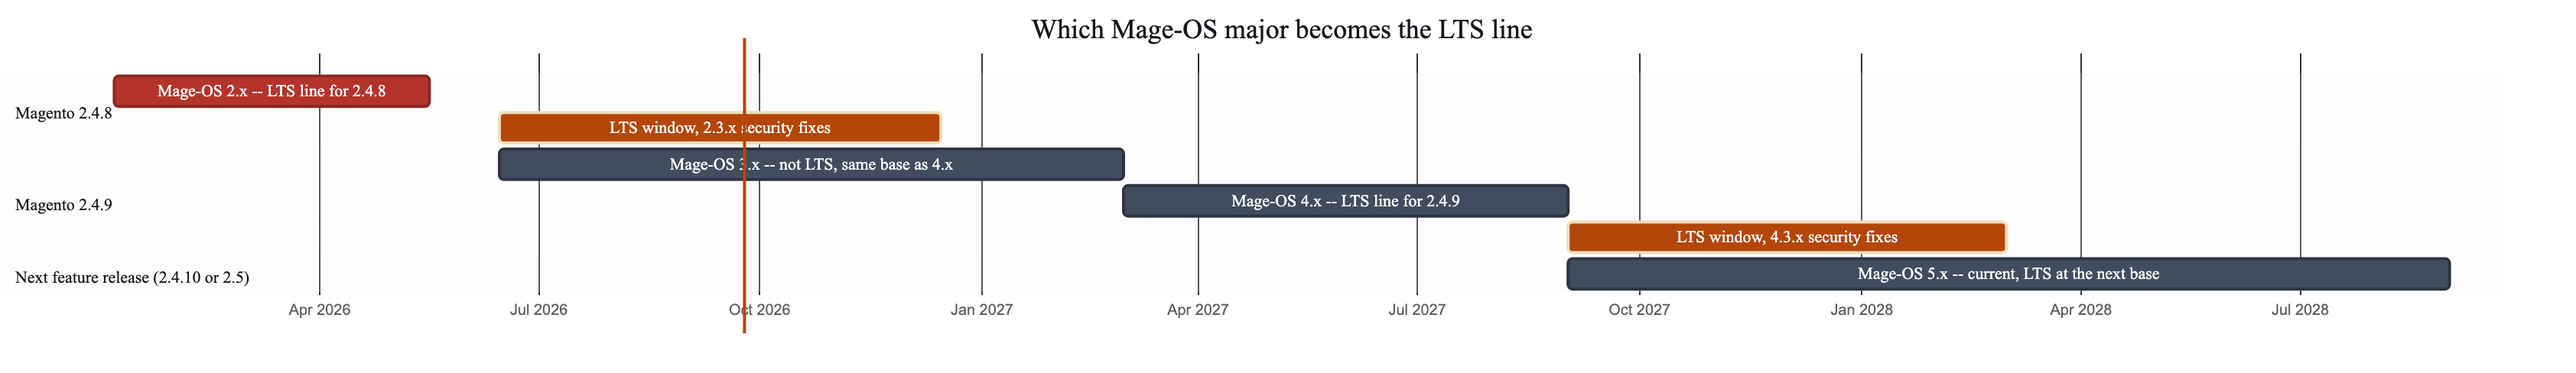
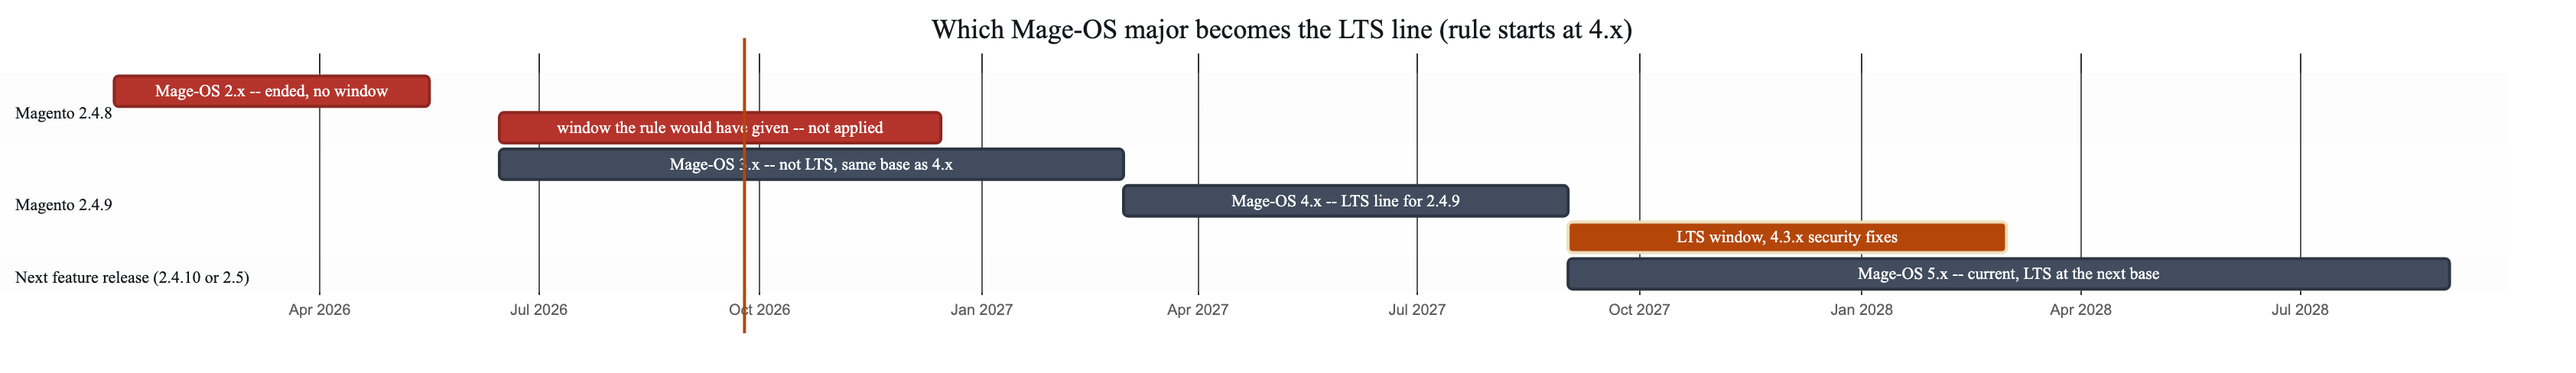
Show that the rule is not retroactive
2.x is closed and stays closed. The 2.4.8 row is marked as the window the rule
would have given rather than one we owe, and the first LTS line is stated as
the last major built on 2.4.9.

Claude-Session: https://claude.ai/code/session_0145ePWxG5QhuKfiSjku3SD4

Changed region(s): [[0.1871, 0.2766, 0.3741, 0.3996], [0.3429, 0.0307, 0.6547, 0.123], [0.0624, 0.2152, 0.1559, 0.2766]]

diff --git a/RELEASE-GRACE-WINDOW-PROPOSAL.md b/RELEASE-GRACE-WINDOW-PROPOSAL.md
@@ -41,13 +41,13 @@ that moves to a new Magento feature version is what merchants need time for.
 
 ```mermaid
 gantt
-    title Which Mage-OS major becomes the LTS line
+    title Which Mage-OS major becomes the LTS line (rule starts at 4.x)
     dateFormat YYYY-MM-DD
     axisFormat %b %Y
 
     section Magento 2.4.8
-    Mage-OS 2.x  -- LTS line for 2.4.8       :crit, m2, 2026-01-06, 2026-05-17
-    LTS window, 2.3.x security fixes         :w2, 2026-06-15, 2026-12-15
+    Mage-OS 2.x  -- ended, no window          :crit, m2, 2026-01-06, 2026-05-17
+    window the rule would have given -- not applied :crit, w2, 2026-06-15, 2026-12-15
 
     section Magento 2.4.9
     Mage-OS 3.x  -- not LTS, same base as 4.x :active, m3, 2026-06-15, 2027-03-01
@@ -55,8 +55,13 @@ gantt
     LTS window, 4.3.x security fixes          :w4, 2027-09-01, 2028-03-01
 
     section Next feature release (2.4.10 or 2.5)
-    Mage-OS 5.x  -- current, LTS at the next base :active, m5, 2027-09-01, 2028-09-01
+    Mage-OS 5.x -- current, LTS at the next base :active, m5, 2027-09-01, 2028-09-01
 ```
+
+**The rule is not retroactive.** 2.x is closed and stays closed; the 2.4.8 row
+below only shows what the rule would have given, to check it against real dates.
+The first LTS line is the last major built on 2.4.9 — 4.x if 4.0 keeps that base
+and 5.0 moves to the next one, which is the expected path.
 
 Dates after 3.4.0 are illustrative. Two things are load-bearing: only the line
 before a base change gets a window, and at most two lines are ever live.
